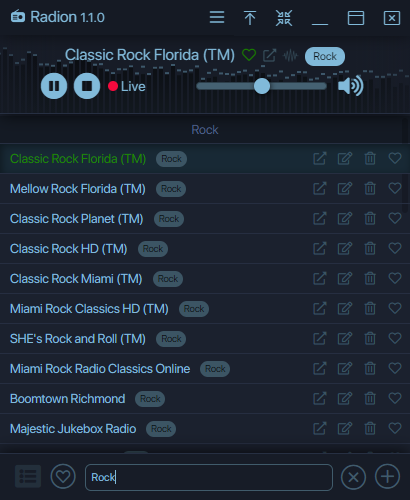
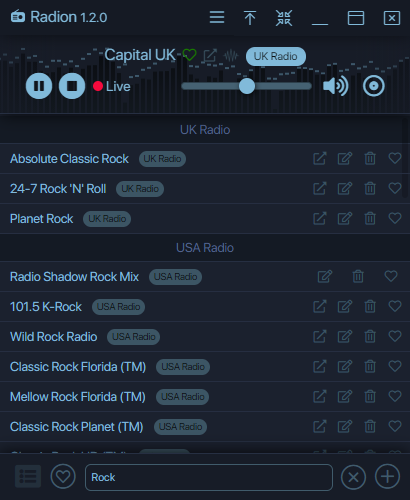
feat: Update README.md file.

diff --git a/src/App/components/Player/Player.module.scss b/src/App/components/Player/Player.module.scss
@@ -123,7 +123,7 @@
 .controlWrap { 
     position: relative;  
     z-index: 300; 
-    width: 360px;
+    width: 320px;
     display: flex;
     flex-direction: row;
     justify-content: flex-start;
@@ -289,7 +289,7 @@
     margin: 0;
     -webkit-appearance: none;
     border-radius: 4px;
-    width: auto;
+    width: 90px;
     height: 8px;
     outline: none;
     background: rgb(69, 97, 114);

diff --git a/README.md b/README.md
@@ -1,6 +1,6 @@
-# Radion | Internet Radio Online Player
+# Radion | Internet Radio Online Player and Recorder.
 
-Applications for listening to the broadcast of radio stations.
+Applications for listening and recording broadcast radio stations.
 Made using - Electron.js, React.js.
 
 ![alt text](/design/screen_1.png 'Radion - Select a radio station')
@@ -14,8 +14,8 @@ Made using - Electron.js, React.js.
 
 ### Download
 
-[Radion Setup 1.1.0](http://bit.do/radion-110) - (OS Windows, zip, 64 Mb)  
-[Radion Portable 1.1.0](http://bit.do/radion-portable-110) - (OS Windows, zip, 64 Mb)
+[Radion Setup 1.2.0](http://bit.do/radion-120) - (OS Windows, zip, 106 Mb)  
+[Radion Portable 1.2.0](http://bit.do/radion-portable-120) - (OS Windows, zip, 133 Mb)
 
 <span id="qr_code" style="
  display: inline-block;
@@ -24,7 +24,7 @@ Made using - Electron.js, React.js.
  text-align: center;
  background-color: white;
  padding: 5px;
-"><a href="http://bit.do/radion-110-?qrcode=1" style="border: 0;">QR Code:<br><img src="http://chart.apis.google.com/chart?cht=qr&amp;chs=100x100&amp;choe=UTF-8&amp;chld=H%7C0&amp;chl=http://bit.do/radion-110" alt="QR Code" title="Enlarge QR Code"><br>http://bit.do/radion-110</a></span>
+"><a href="http://bit.do/radion-120-?qrcode=1" style="border: 0;">QR Code:<br><img src="http://chart.apis.google.com/chart?cht=qr&amp;chs=100x100&amp;choe=UTF-8&amp;chld=H%7C0&amp;chl=http://bit.do/radion-120" alt="QR Code" title="Enlarge QR Code"><br>http://bit.do/radion-120</a></span>
 
 <span id="qr_code" style="
  display: inline-block;
@@ -33,7 +33,7 @@ Made using - Electron.js, React.js.
  text-align: center;
  background-color: white;
  padding: 5px;
-"><a href="http://bit.do/radion-portable-110-?qrcode=1" style="border: 0;">QR Code:<br><img src="http://chart.apis.google.com/chart?cht=qr&amp;chs=100x100&amp;choe=UTF-8&amp;chld=H%7C0&amp;chl=http://bit.do/radion-portable-110" alt="QR Code" title="Enlarge QR Code"><br>http://bit.do/radion-portable-110</a></span>
+"><a href="http://bit.do/radion-portable-120-?qrcode=1" style="border: 0;">QR Code:<br><img src="http://chart.apis.google.com/chart?cht=qr&amp;chs=100x100&amp;choe=UTF-8&amp;chld=H%7C0&amp;chl=http://bit.do/radion-portable-120" alt="QR Code" title="Enlarge QR Code"><br>http://bit.do/radion-portable-120</a></span>
 
 ## Run for start development version
 
